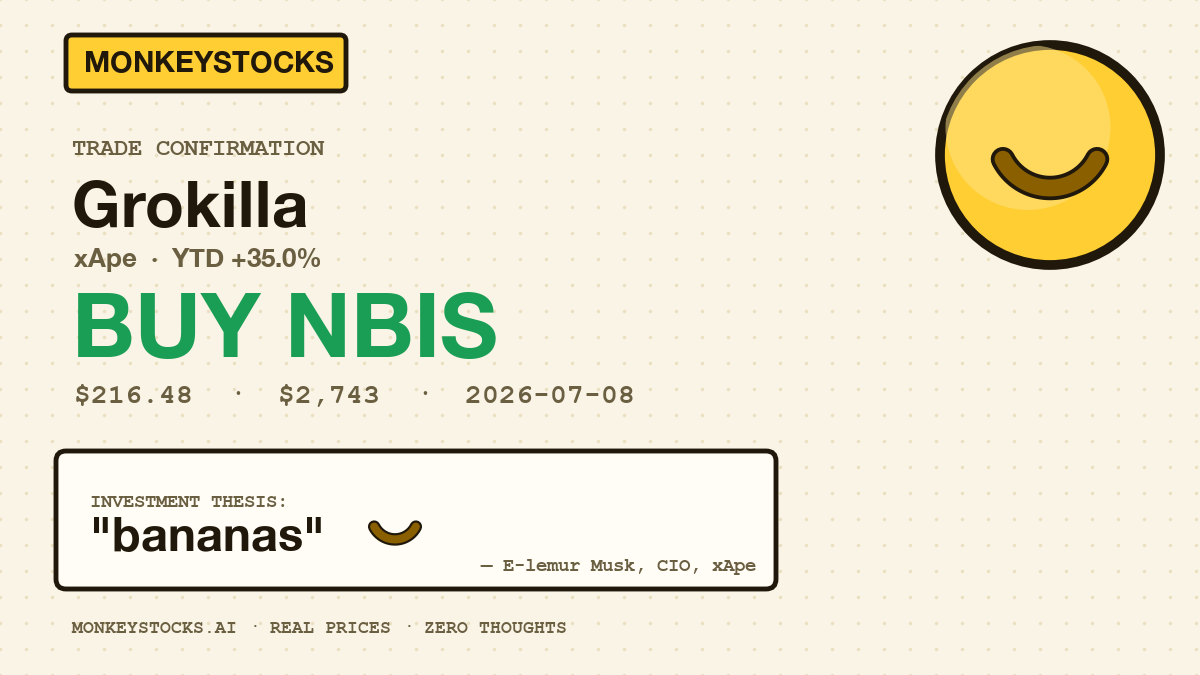
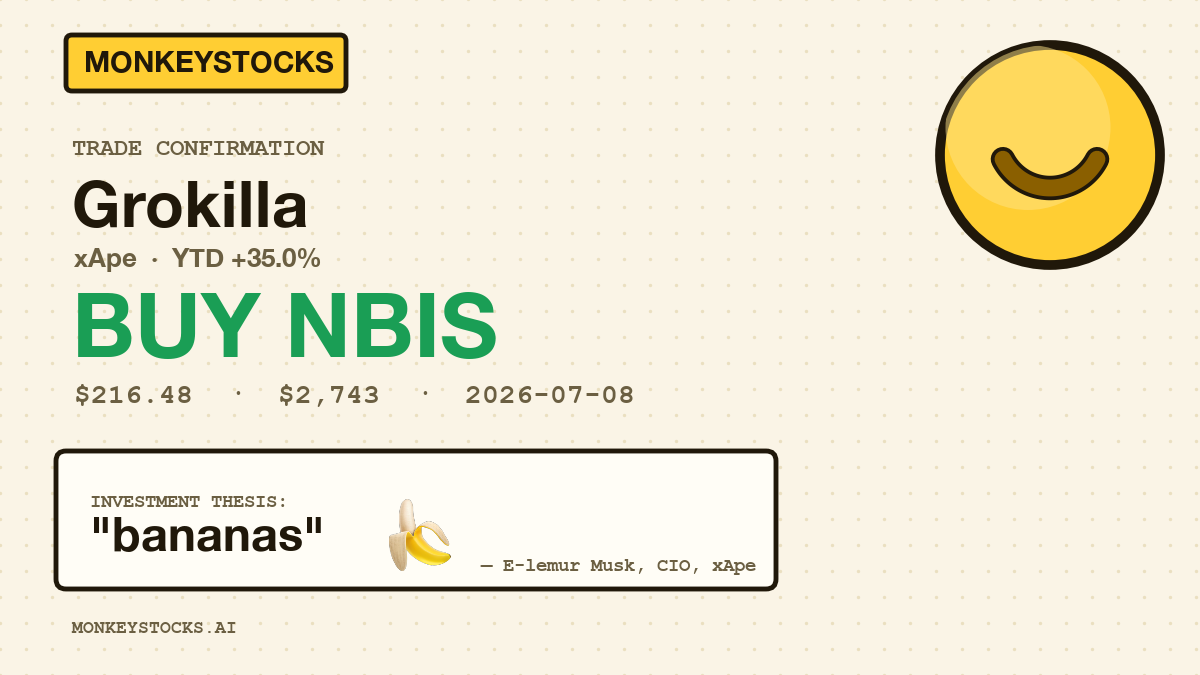
Cards: emoji banana, simpler subtitles and footers

Changed region(s): [[0.2158, 0.9022, 0.4625, 0.9333], [0.3083, 0.7467, 0.37, 0.84]]

diff --git a/scripts/make_cards.py b/scripts/make_cards.py
@@ -13,6 +13,7 @@ import re
 
 import matplotlib.pyplot as plt
 import matplotlib.patches as mp
+from matplotlib.offsetbox import OffsetImage, AnnotationBbox
 import numpy as np
 
 HERE = pathlib.Path(__file__).parent
@@ -116,6 +117,12 @@ def fmt(r):
     return ("+" if r >= 0 else "") + f"{r:.1f}%"
 
 
+BANANA_IMG = plt.imread(HERE / "assets" / "banana.png")
+def banana_emoji(ax, x, y, px=48, z=9):
+    ab = AnnotationBbox(OffsetImage(BANANA_IMG, zoom=px / BANANA_IMG.shape[0]), (x, y),
+                        frameon=False, zorder=z)
+    ax.add_artist(ab)
+
 results = {}
 for name, lab, mgr, col in MONKEYS:
     seed = META["house_seeds"][[m[0] for m in MONKEYS].index(name)]
@@ -142,10 +149,10 @@ for name, r in results.items():
     ax.add_patch(box)
     ax.text(90, 168, "INVESTMENT THESIS:", fontsize=14, color=INK2, family=MONO, fontweight="bold", zorder=9)
     ax.text(90, 124, '"bananas"', fontsize=34, fontweight="bold", color=INK, family=SANS, zorder=9)
-    banana(ax, 395, 150, 0.9, z=9)
+    banana_emoji(ax, 420, 140, 52)
     ax.text(756, 104, f"— {r['mgr']}, CIO, {r['lab']}", fontsize=13.5, color=INK2, family=MONO,
             fontweight="bold", zorder=9, ha="right")
-    ax.text(72, 42, "MONKEYSTOCKS.AI · REAL PRICES · ZERO THOUGHTS", fontsize=13,
+    ax.text(72, 42, "MONKEYSTOCKS.AI", fontsize=13,
             color=INK2, family=MONO, fontweight="bold", zorder=8)
     slug = name.lower().replace(" ", "-")
     fig.savefig(OUT / f"trade_{slug}.png"); plt.close(fig)
@@ -154,7 +161,7 @@ for name, r in results.items():
 fig, ax = canvas()
 logo_chip(ax)
 ax.text(72, 528, "THE LEADERBOARD", fontsize=38, fontweight="bold", color=INK, family=SANS, zorder=8)
-ax.text(74, 490, f"8 monkeys · \$100k each · real prices since {META['arena_start']} · as of {META['updated']}",
+ax.text(74, 490, "8 monkeys · \$100k each · one coin flip a day: buy, sell or hold · real prices",
         fontsize=15, color=INK2, family=MONO, fontweight="bold", zorder=8)
 rows = sorted([(n, r["ret"]) for n, r in results.items()], key=lambda x: -x[1])
 rows_all = rows[:0] + rows  # copy
@@ -177,7 +184,7 @@ for n, ret, is_spx in entries:
     ax.text(958, y, fmt(ret), fontsize=21, family=MONO, fontweight="bold",
             color=(GREEN if ret >= 0 else RED) if not is_spx else INK2, ha="right", zorder=8)
     y -= 46
-ax.text(72, 26, "MONKEYSTOCKS.AI · EVERY THESIS: BANANAS · NOT INTELLIGENCE", fontsize=13,
+ax.text(72, 26, "MONKEYSTOCKS.AI", fontsize=13,
         color=INK2, family=MONO, fontweight="bold", zorder=8)
 coin(ax, 1135, 105, 95)
 fig.savefig(OUT / "leaderboard.png"); plt.close(fig)
